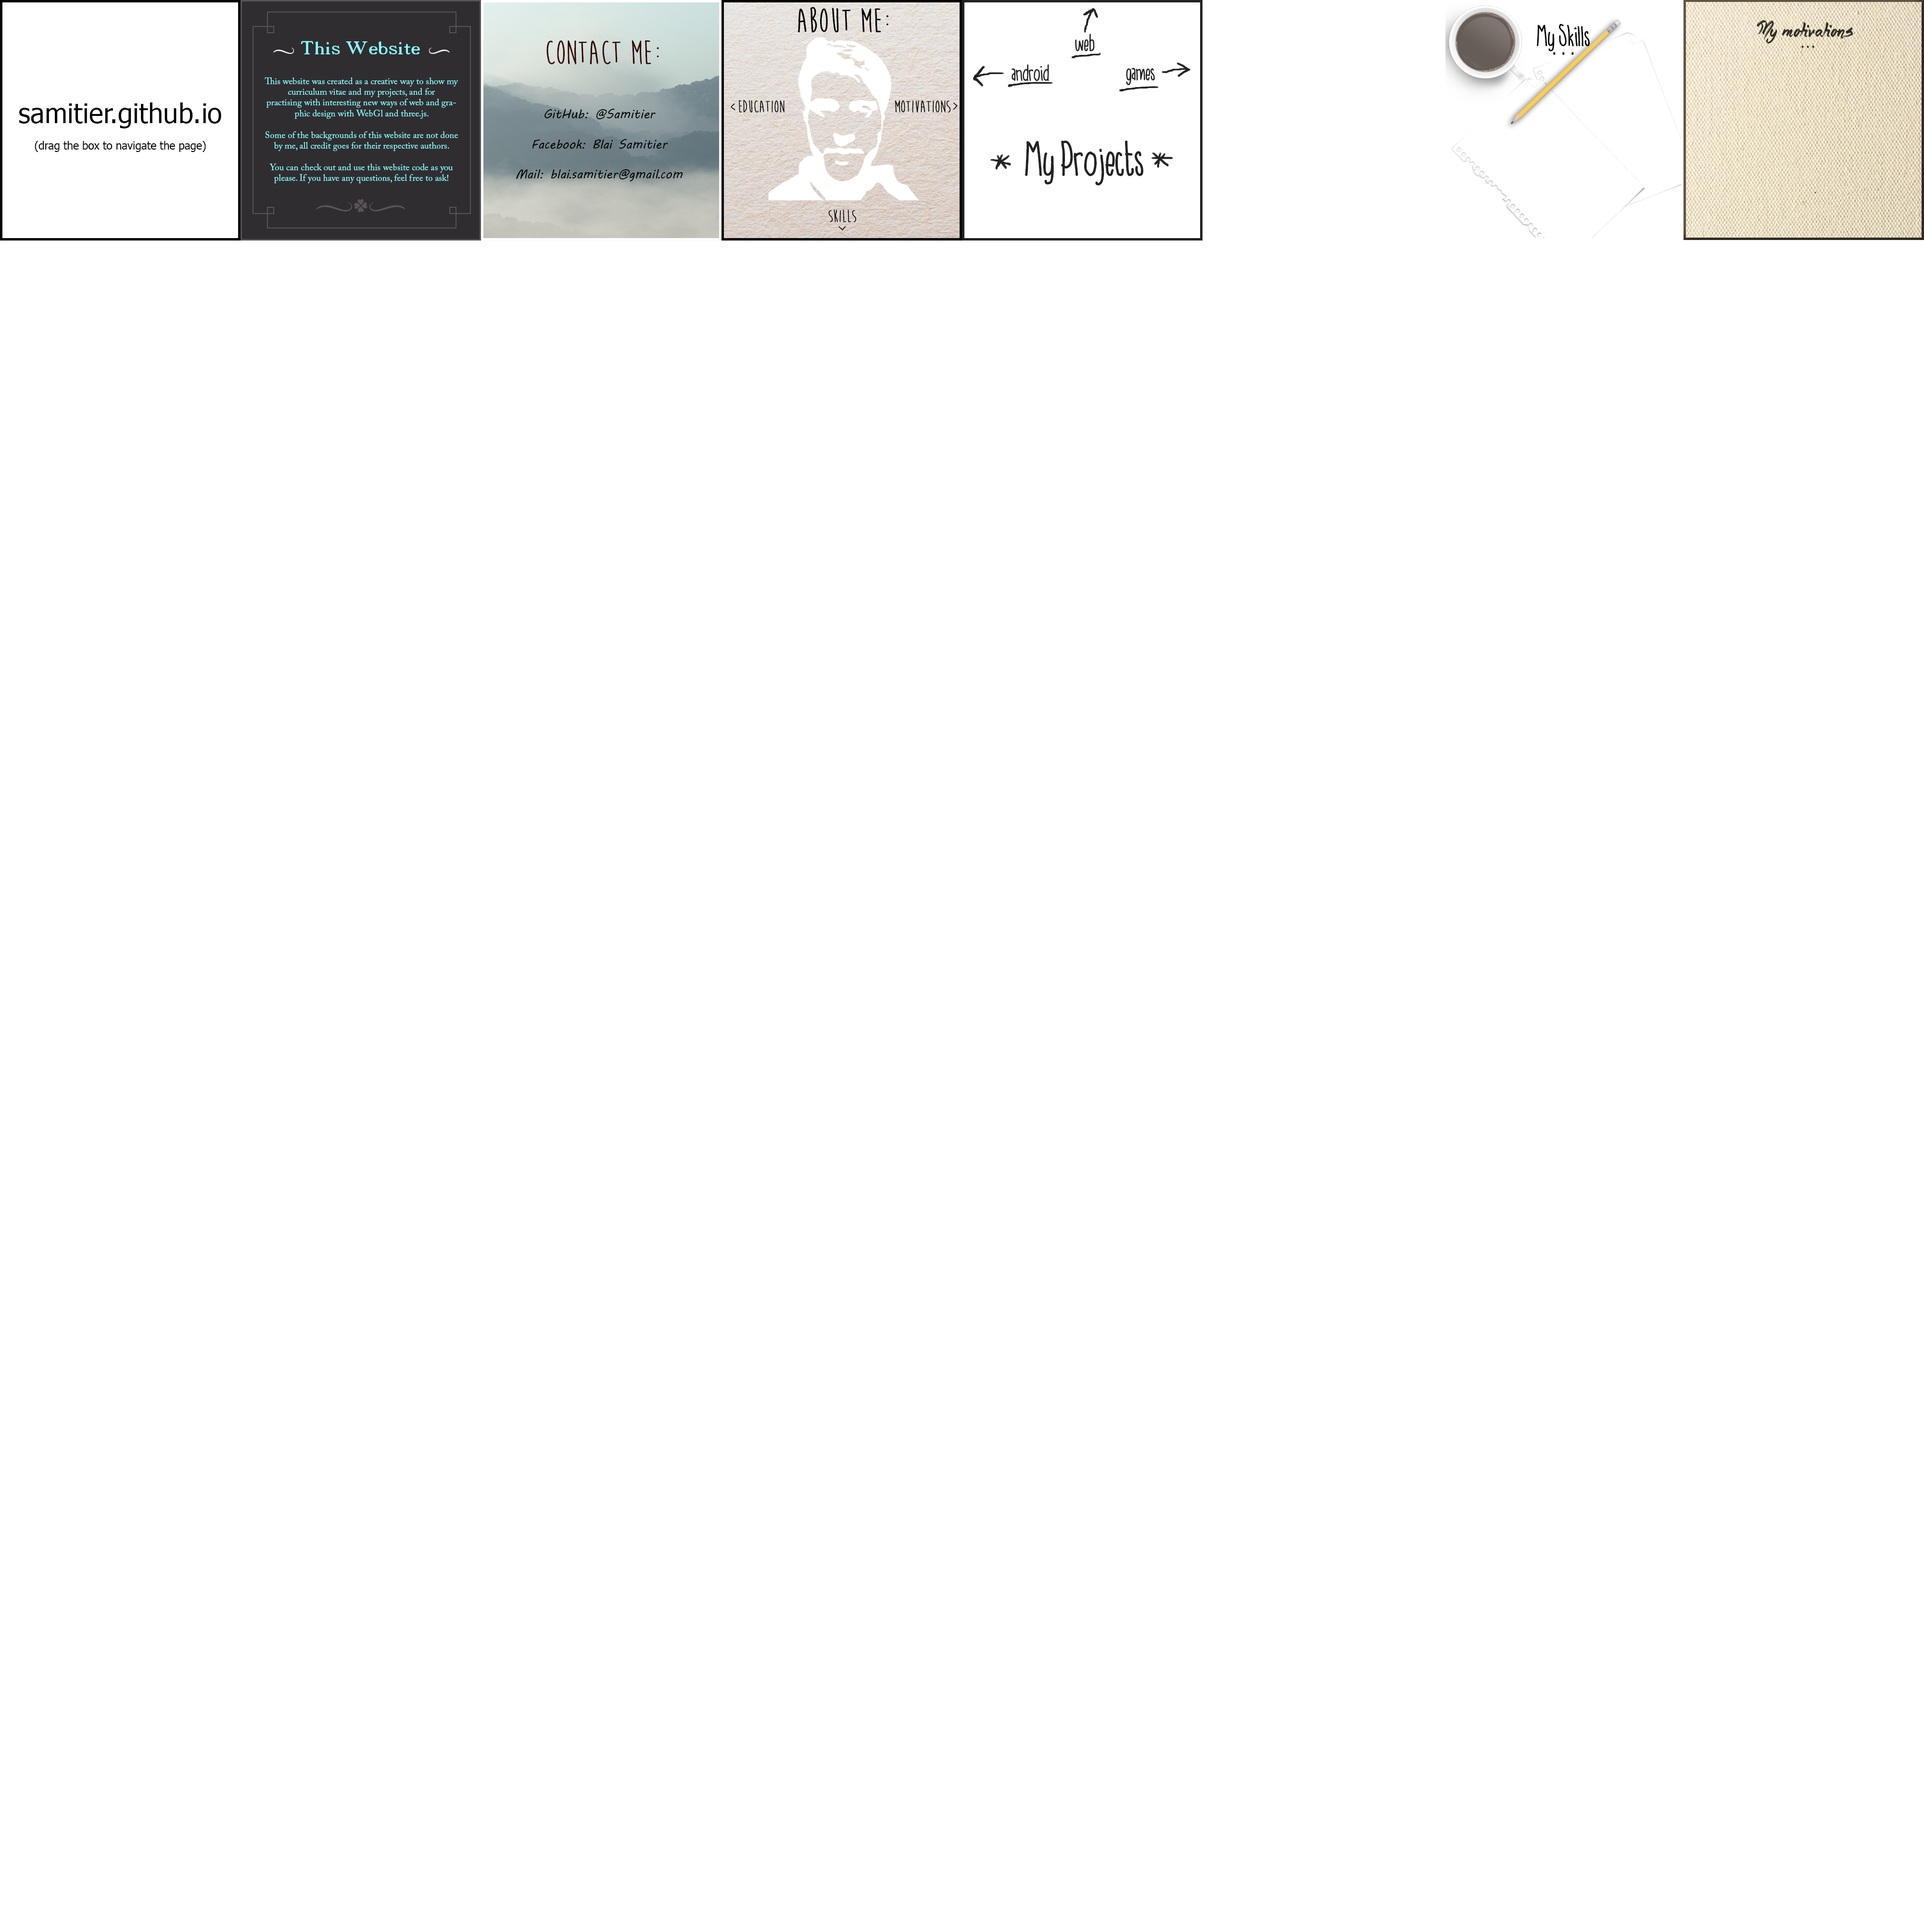
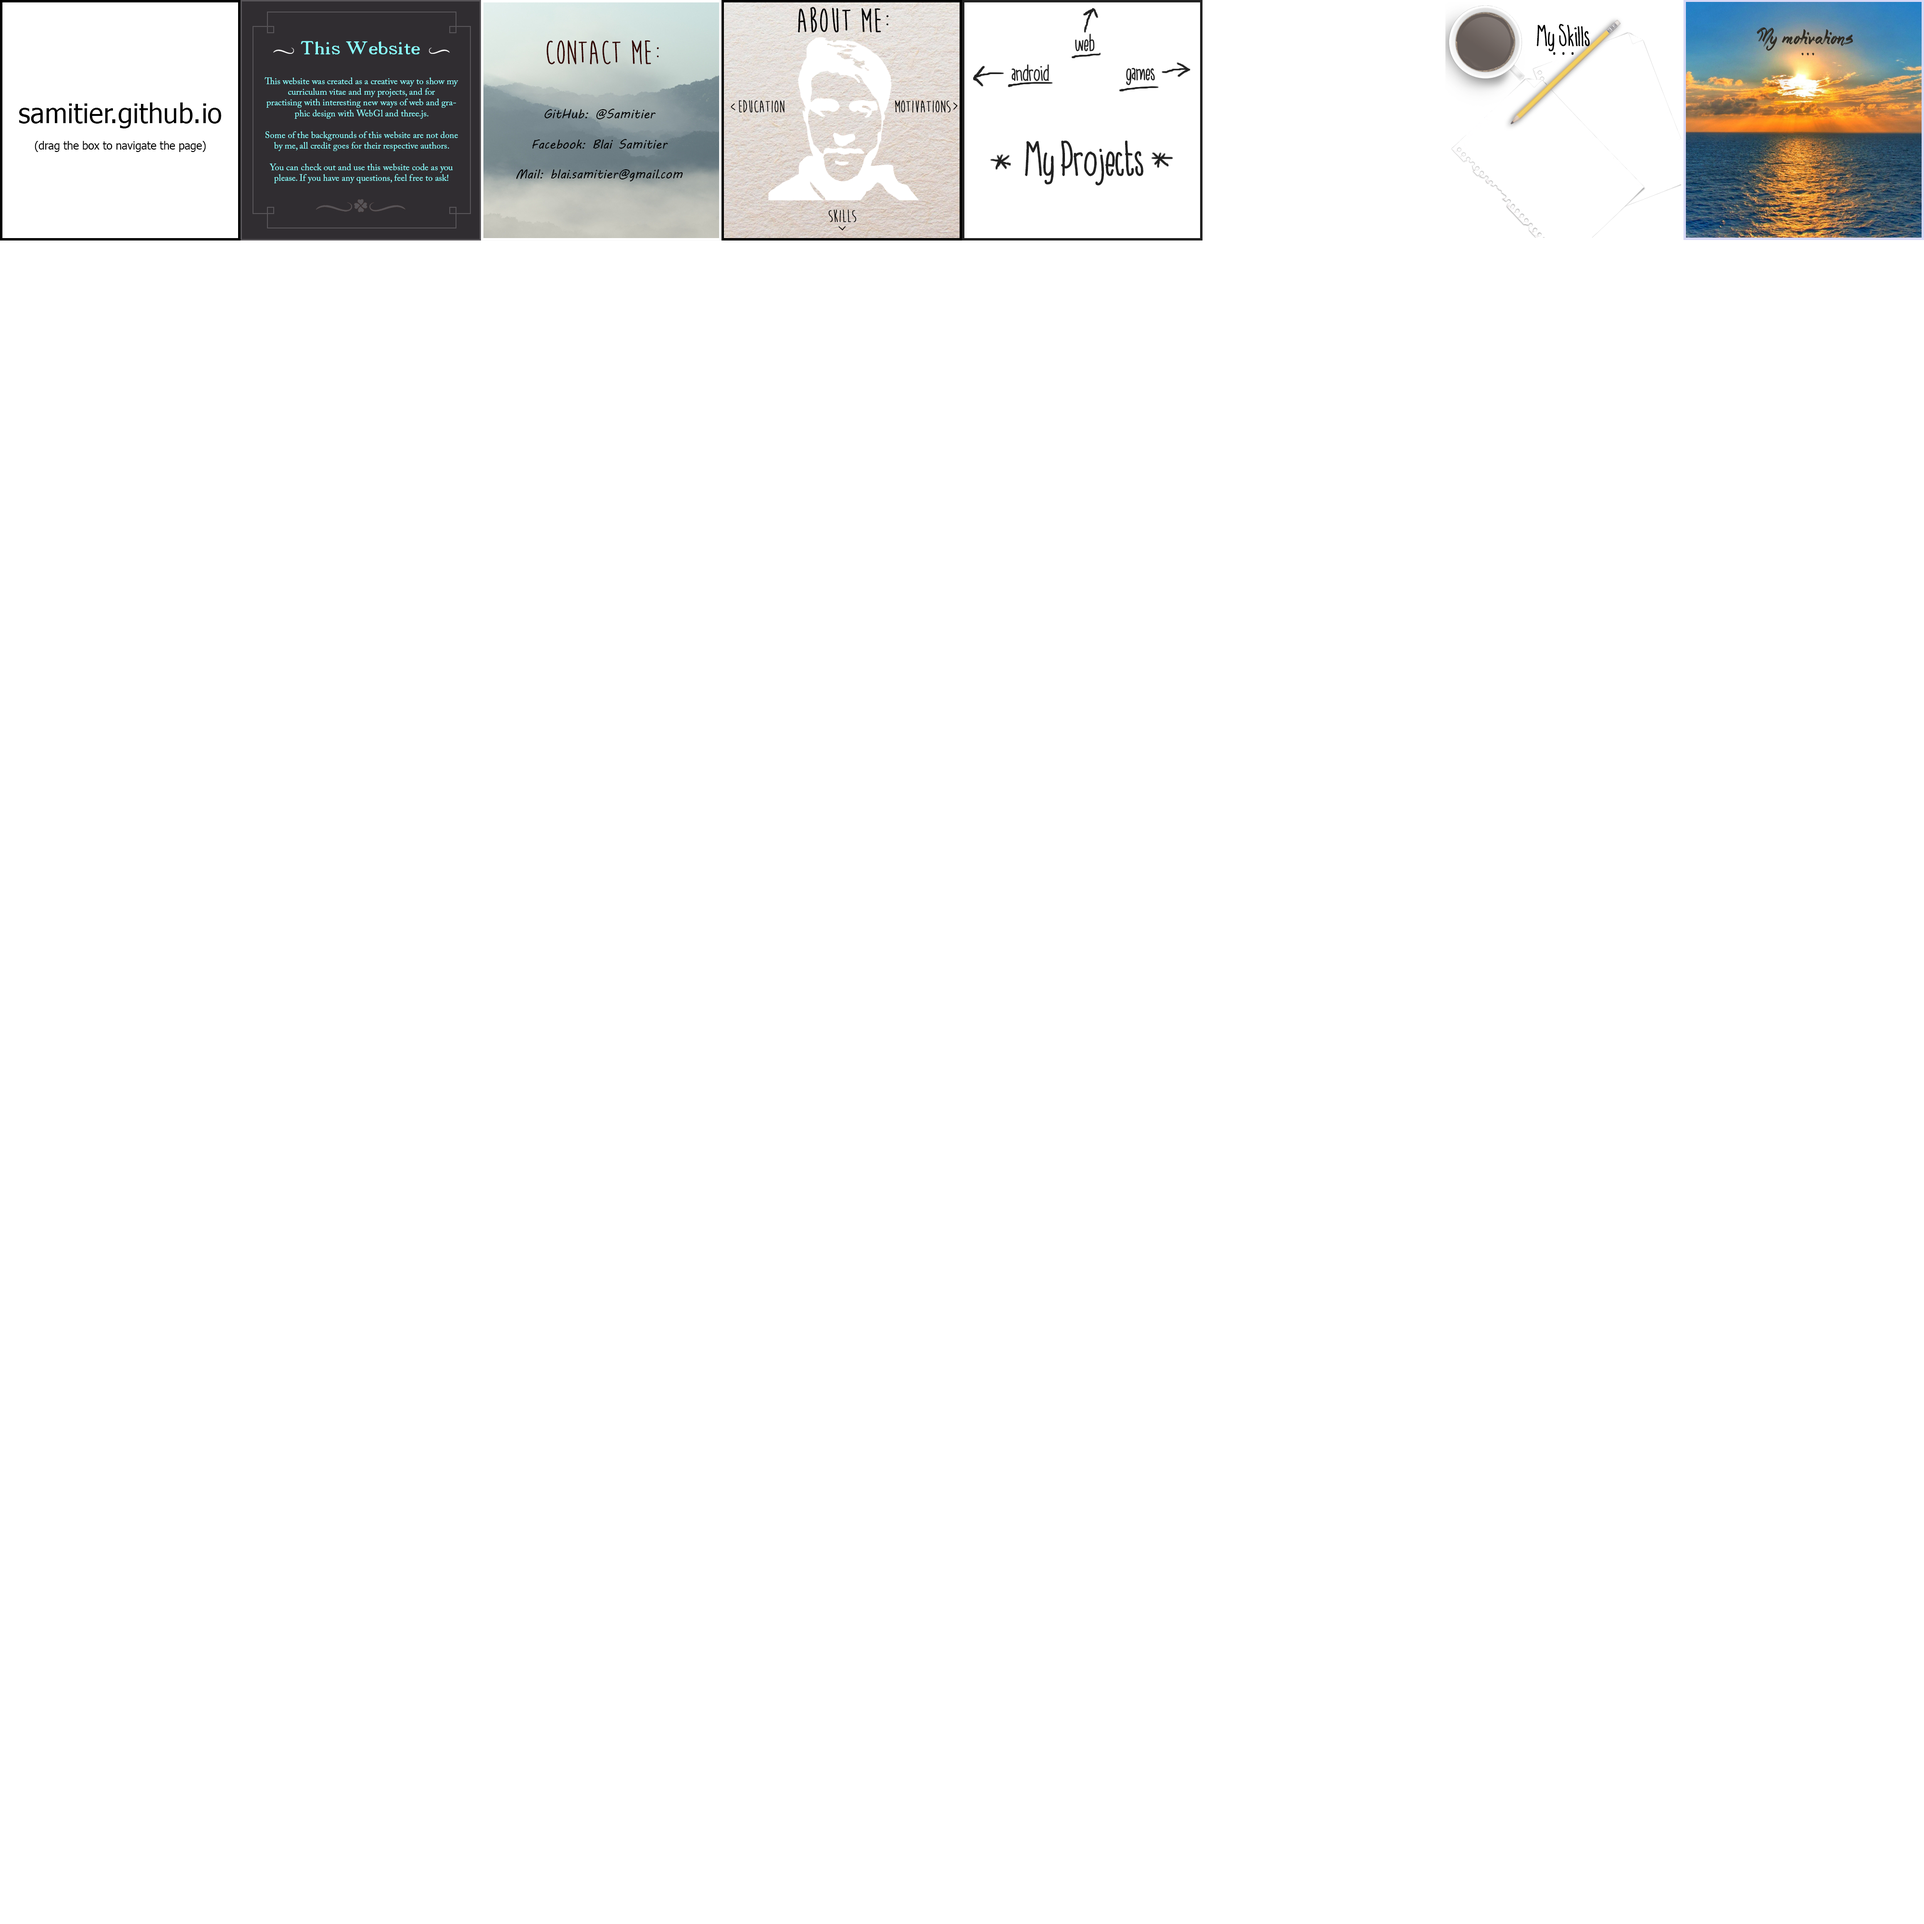
compressed img, changed motivations

Changed region(s): [[0.875, 0.0, 1.0, 0.125]]

diff --git a/js/pages.js b/js/pages.js
@@ -9,16 +9,21 @@ var uv     = { main : [new THREE.Vector2(0, .875), new THREE.Vector2(.125, .875)
 
 };
 
+var pages = THREE.ImageUtils.loadTexture( 'img/pages/pages.png' );
 var bkgMain = THREE.ImageUtils.loadTexture( 'img/bkg/bkgmain.png' );
 var bkgWebsite = THREE.ImageUtils.loadTexture( 'img/bkg/bkgweb.png');
 var bkgContact = THREE.ImageUtils.loadTexture( 'img/bkg/bkgcontact.png');
 var bkgAboutMe = THREE.ImageUtils.loadTexture( 'img/bkg/bkgAboutMe.png');
 var bkgProjects = THREE.ImageUtils.loadTexture( 'img/bkg/bkgProjects.png');
 var bkgMotivations = THREE.ImageUtils.loadTexture( 'img/bkg/bkgMotivations.png');
-var bkgSkills = THREE.ImageUtils.loadTexture( 'img/bkg/bkg222.png');
+var bkgSkills = THREE.ImageUtils.loadTexture( 'img/bkg/bkgSkills.png');
 var bkgEducation = THREE.ImageUtils.loadTexture( 'img/bkg/bkgEducation.png');
 
-
+var isLoading = true;
+THREE.DefaultLoadingManager.onProgress = function ( item, loaded, total ) {
+    if(loaded = total) isLoading=false;
+    console.log( item, loaded, total );
+};
 
 var navs = {   main:      {top : "projects",bottom : "me",   left : "website", right: "contact", front: "main",    background:bkgMain},
                website:   {top : "main",    bottom : "main", left : "main",    right: "main",     front: "website", background:bkgWebsite},

diff --git a/js/main.js b/js/main.js
@@ -38,8 +38,7 @@ function init() {
       renderer.setSize( window.innerWidth, window.innerHeight );
       document.body.appendChild( renderer.domElement );
       var geometry = new THREE.BoxGeometry( 1, 1, 1 );
-      var texture = THREE.ImageUtils.loadTexture( 'img/pages/pages.png' );
-      var material = new THREE.MeshBasicMaterial( {map: texture , transparent:true} );
+      var material = new THREE.MeshBasicMaterial( {map: pages , transparent:true} );
       cube = new THREE.Mesh( geometry, material );
       scene.add( cube );
 
